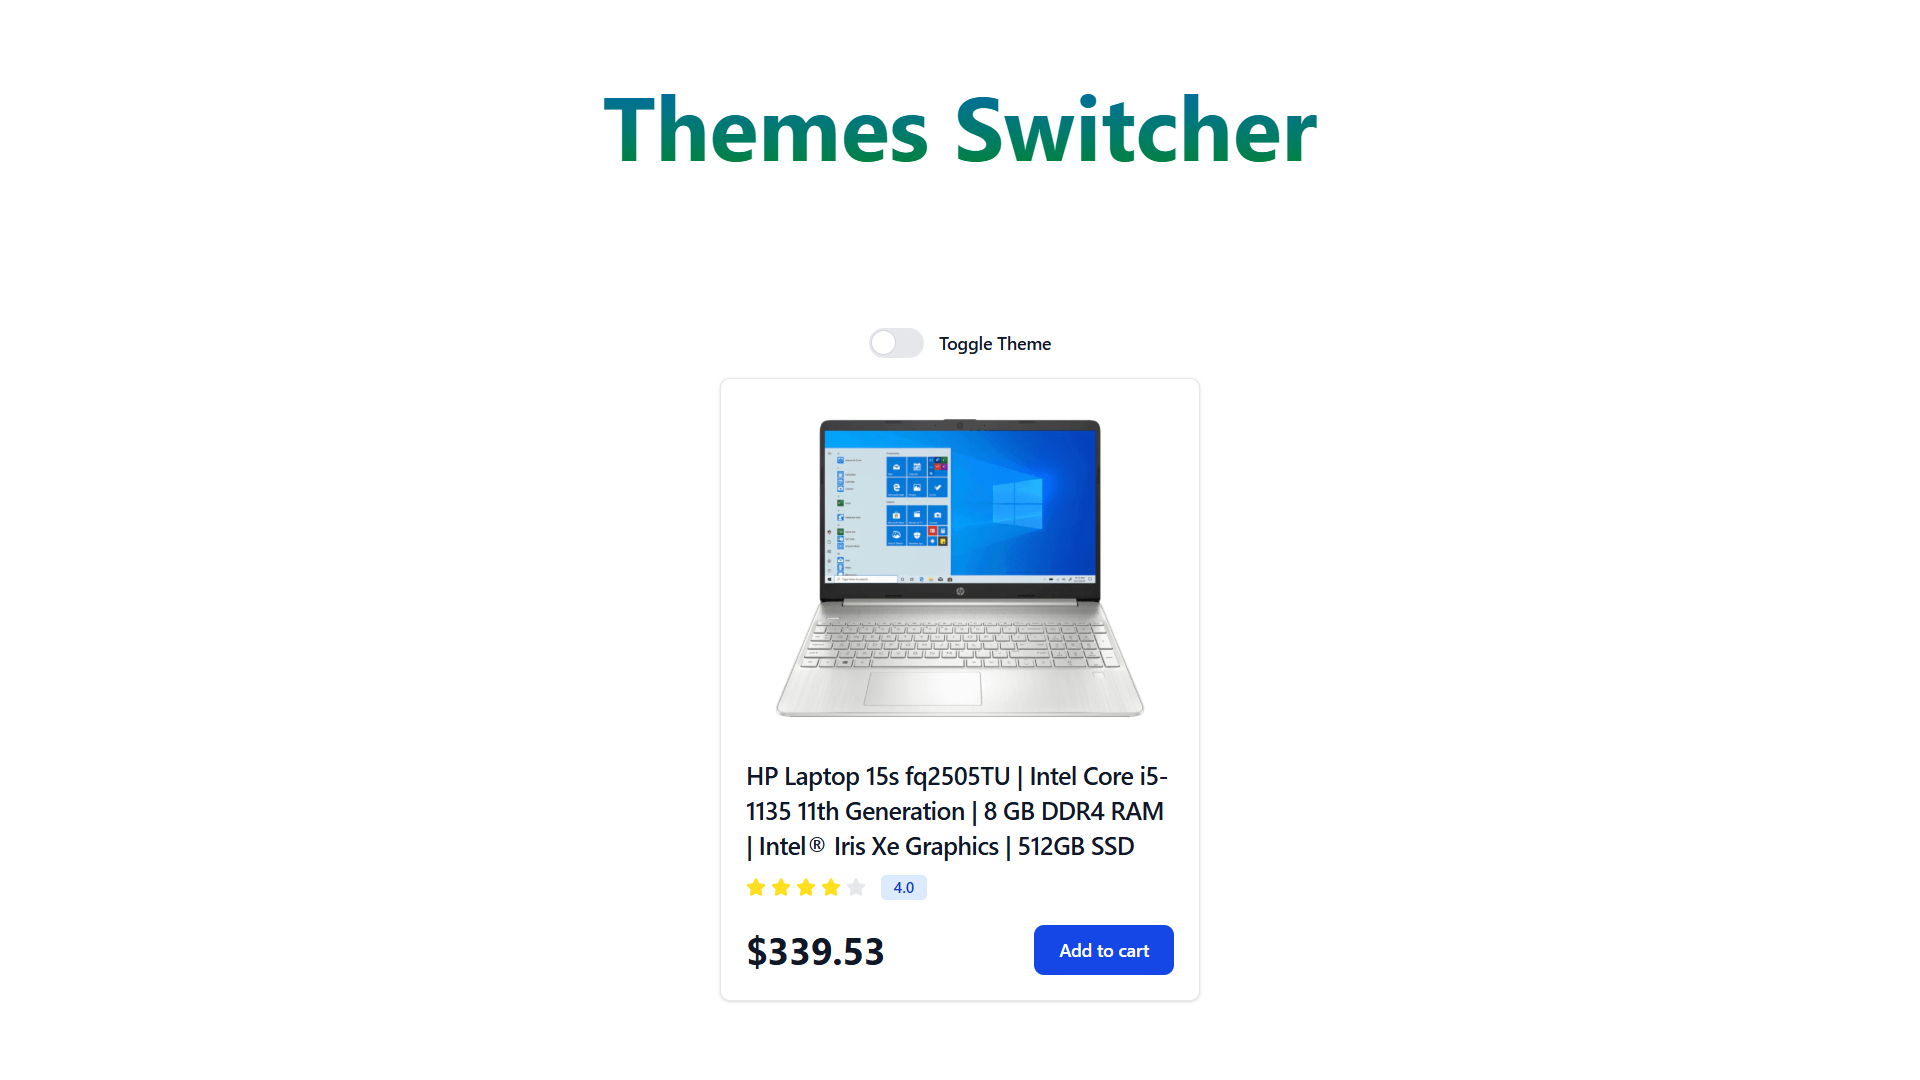
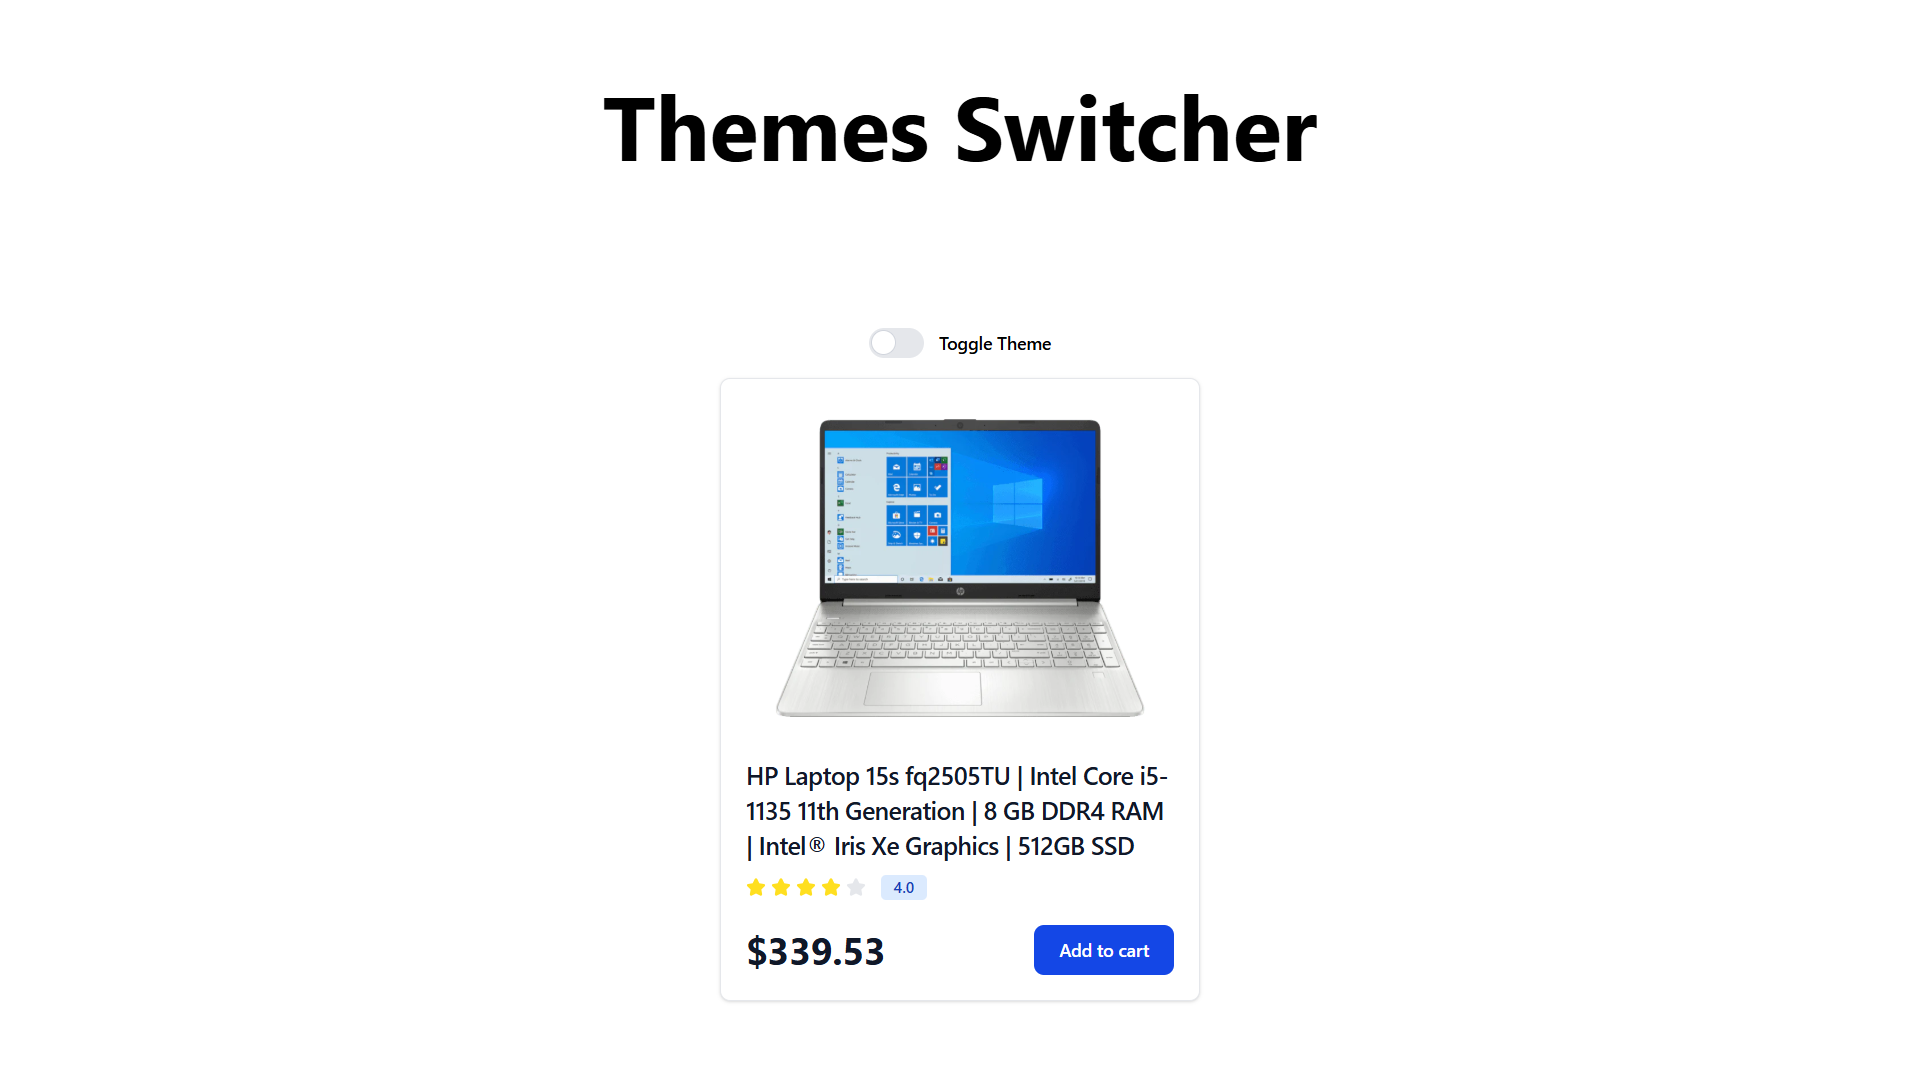
second commit

Changed region(s): [[0.3125, 0.0917, 0.6875, 0.1528], [0.5, 0.3056, 0.5312, 0.3361]]

diff --git a/src/components/ThemeBtn.jsx b/src/components/ThemeBtn.jsx
@@ -25,7 +25,7 @@ export default function ThemeBtn() {
                 checked={themeMode === "dark"}
             />
             <div className="w-11 h-6 bg-gray-200 peer-focus:outline-none peer-focus:ring-4 peer-focus:ring-blue-300 dark:peer-focus:ring-blue-800 rounded-full peer dark:bg-gray-700 peer-checked:after:translate-x-full peer-checked:after:border-white after:content-[''] after:absolute after:top-[2px] after:left-[2px] after:bg-white after:border-gray-300 after:border after:rounded-full after:h-5 after:w-5 after:transition-all dark:border-gray-600 peer-checked:bg-blue-600"></div>
-            <span className="ml-3 text-sm font-medium text-gray-900">Toggle Theme</span>
+            <span className="ml-3 text-sm font-medium dark:text-gray-100">Toggle Theme</span>
         </label>
     );
 }

diff --git a/src/App.jsx b/src/App.jsx
@@ -21,8 +21,8 @@ function App() {
 
   return (
     <ThemeProvider value={{ themeMode, lightTheme, darkTheme }}>
-      <div className="flex flex-wrap min-h-screen justify-center items-center">
-        <h1 className='text-7xl bg-gradient-to-b from-sky-700 to-green-700 bg-clip-text text-transparent  text-center font-bold '>Themes Switcher </h1>
+      <div className="flex flex-wrap min-h-screen justify-center dark:bg-gray-900 items-center">
+        <h1 className='text-7xl   text-black  text-center font-bold dark:text-gray-100'>Themes Switcher </h1>
         <div className="w-full">
           <div className="w-full max-w-sm mx-auto flex justify-center mb-4">
             <ThemeBtn />
